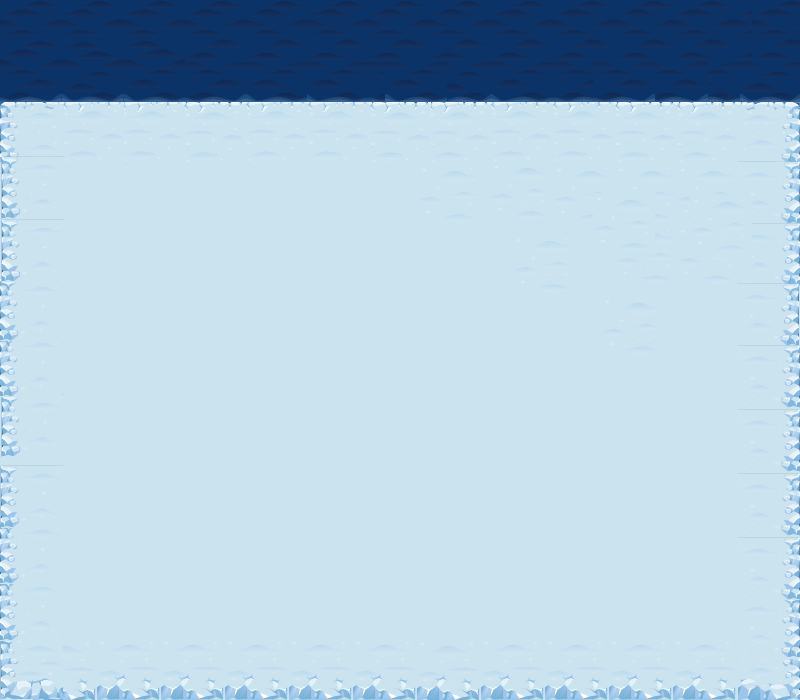
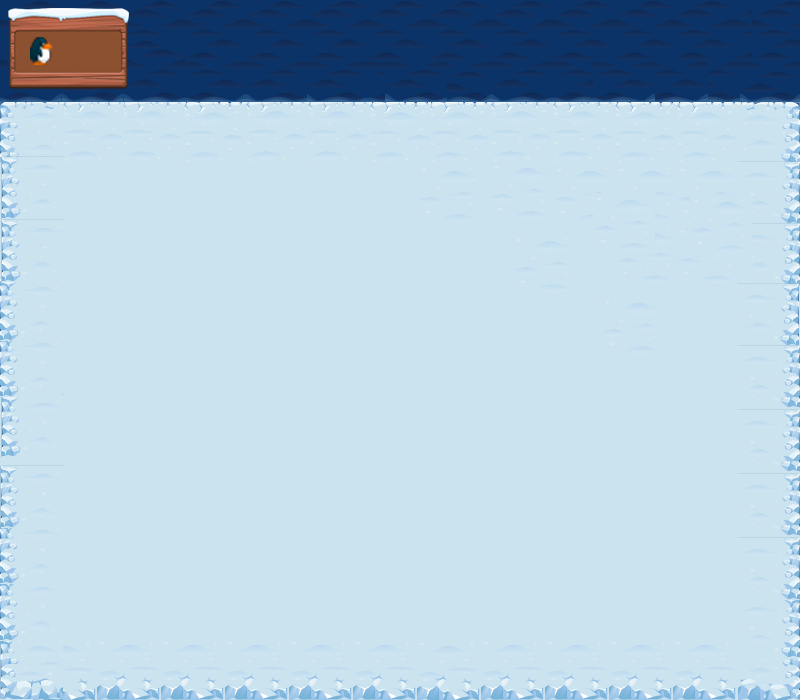
Updated background with scoreboard and updated hud function.  Also set a game font to RaviPrakash-Regular

Changed region(s): [[0.0, 0.0, 0.1562, 0.15]]

diff --git a/game.py b/game.py
@@ -9,6 +9,8 @@ bg_filenames = ('assets/images/backgrounds/bg_title.jpg',
                 'assets/images/backgrounds/bg_credits.jpg'
                 )
 
+game_font = 'assets/fonts/RaviPrakash-Regular.ttf'
+
 # setup game display
 size = screen_width, screen_height = 800, 700
 screen = pygame.display.set_mode(size)
@@ -38,12 +40,9 @@ def draw_sprites(all_sprites):
 
 # need a function to update HUD (score, etc)
 def hud(player):
-    font = pygame.font.SysFont('chalkduster.ttf', 48)
-    text = font.render(" :" + (str(player.score)), True, WHITE)
-    textrect = text.get_rect()
-    screen.blit(text, (screen_width/2-textrect.width/2, 2))
-    imagescore = pygame.image.load('assets/images/sprites/penguin.png')
-    screen.blit(imagescore, (screen_width/2-textrect.width/2-20, 2))
+    font = pygame.font.Font(game_font, 48)
+    text = font.render(":{:0>2}".format(str(player.score)), True, WHITE)
+    screen.blit(text, (60, 20))
 
 
 def game_over(player, win):
@@ -68,12 +67,11 @@ def rescue_penguin(player, penguin):
 
 
 def message_display(message, color):
-    font_face = 'freesansbold.ttf'
-    font_large = pygame.font.Font(font_face, 50)
+    font_large = pygame.font.Font(game_font, 50)
     text = font_large.render(message, True, color)
     text_rect = text.get_rect()
     screen.blit(text, (screen_width/2 - text_rect.width/2, 20))
-    font_small = pygame.font.Font(font_face, 36)
+    font_small = pygame.font.Font(game_font, 36)
     sb_text = font_small.render("Press spacebar to continue.", True, BLACK)
     sb_text_rect = sb_text.get_rect()
     screen.blit(sb_text, (screen_width/2 - sb_text_rect.width/2, 120))
@@ -191,8 +189,7 @@ def game_loop():
             # the player should get one point for each target sprite rescued(hit)
             elif pygame.sprite.spritecollideany(player, penguins):
                 penguin = pygame.sprite.spritecollideany(player, penguins)
-                score = rescue_penguin(player, penguin)
-                print(player.score)
+                rescue_penguin(player, penguin)
             elif penguins.sprites() == []:
                 win = True
                 game_stage = game_over(player, win)
